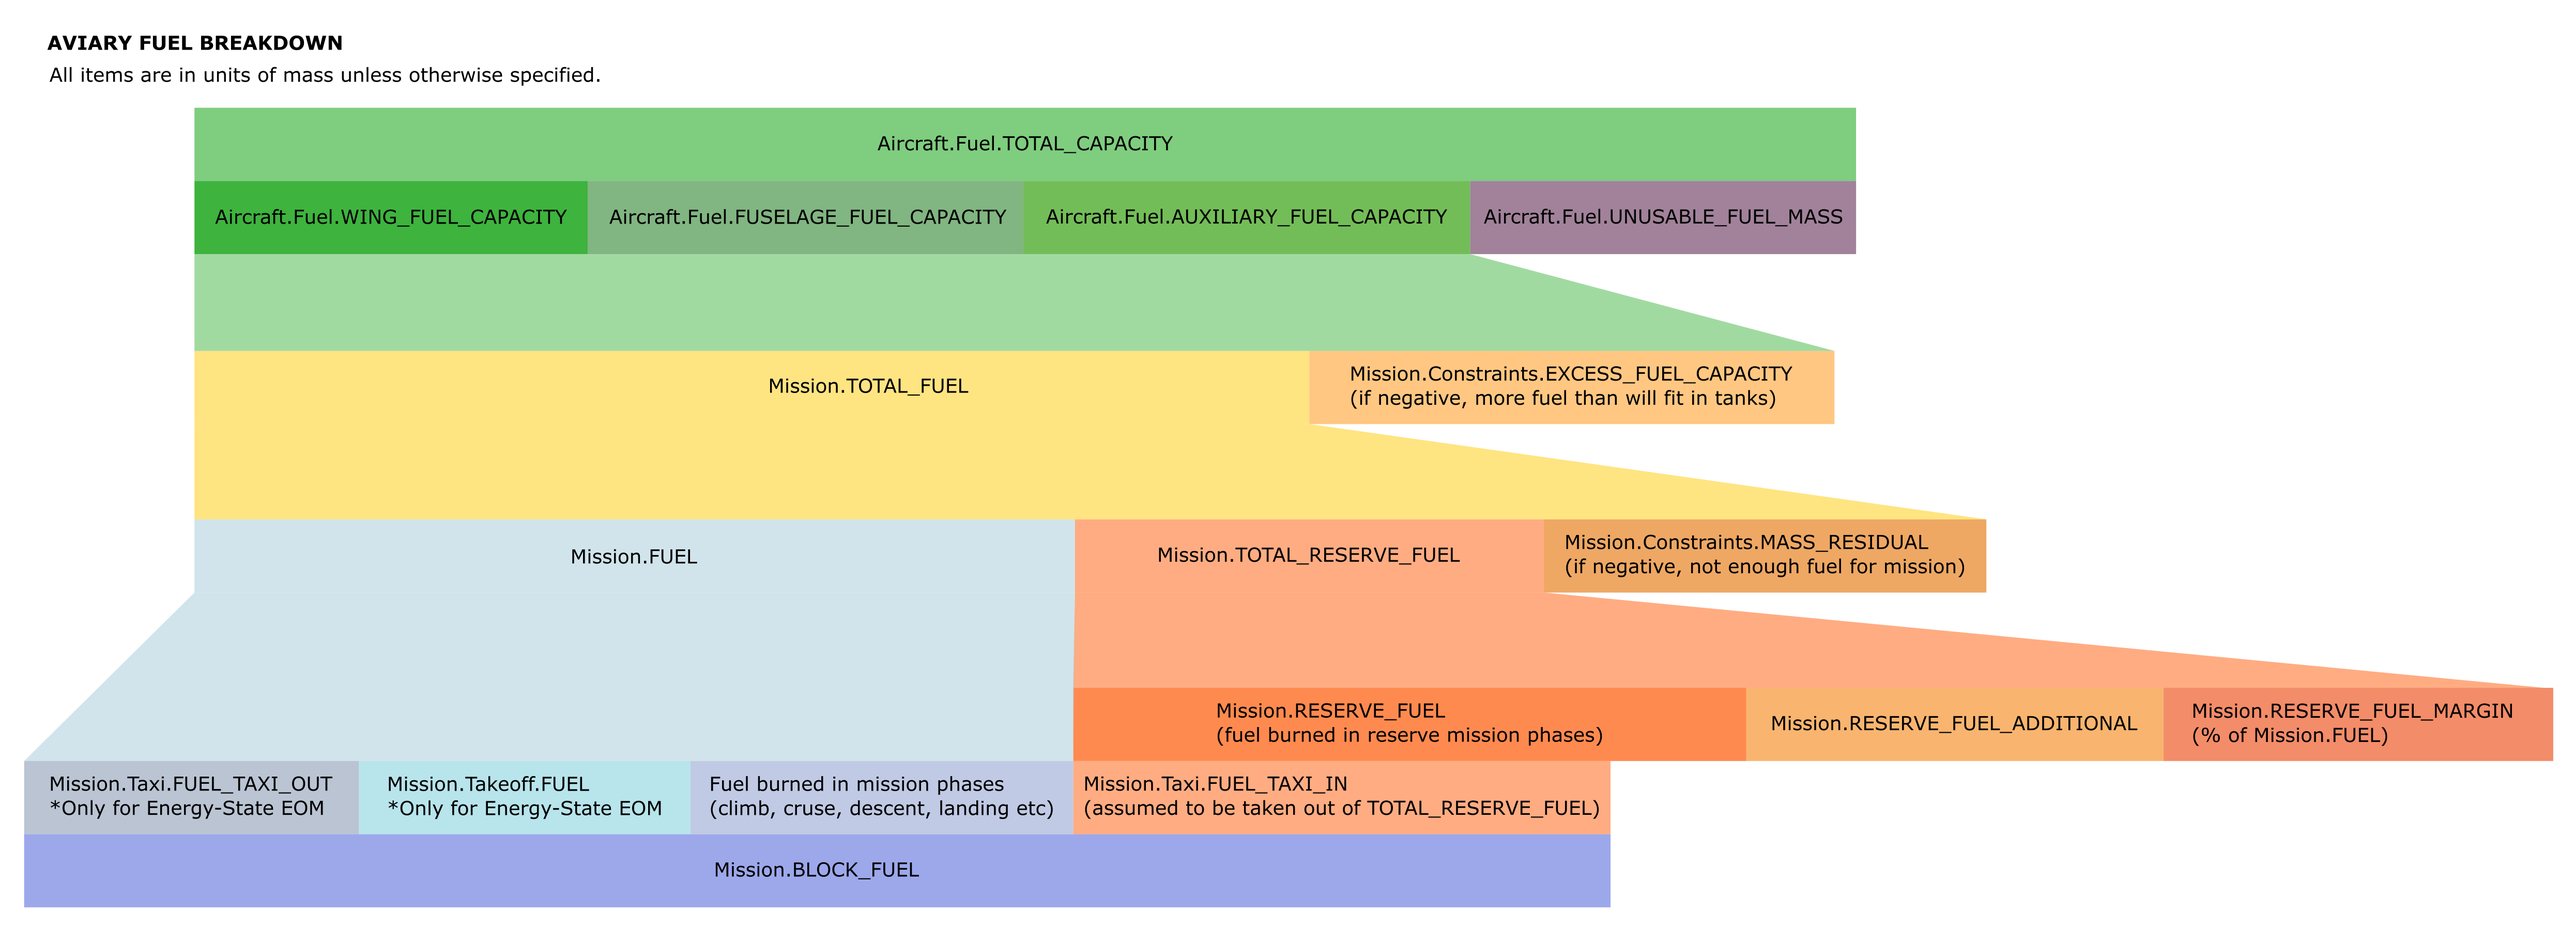
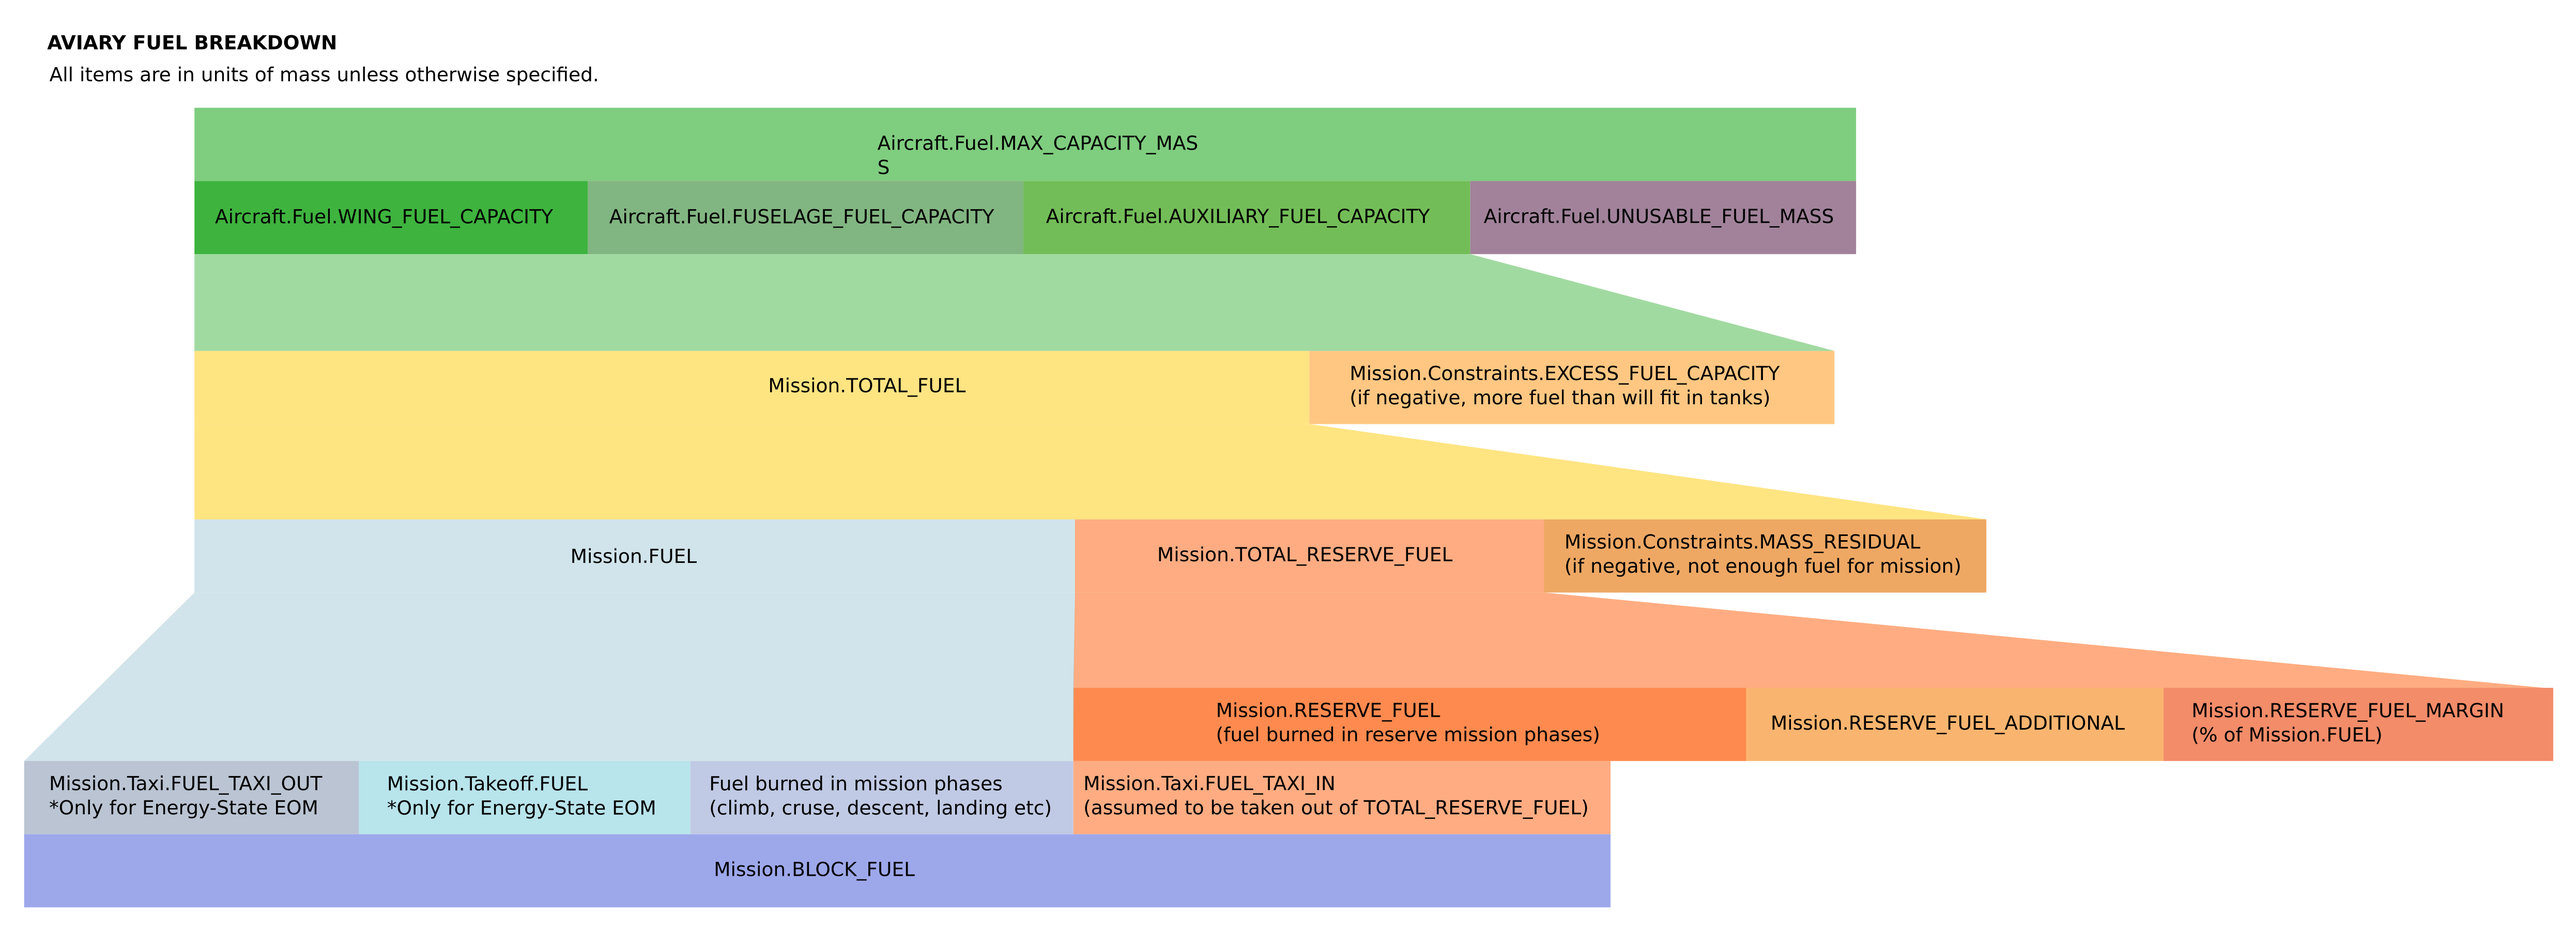
post-merge variable name changes

diff --git a/aviary/subsystems/mass/gasp_based/test/test_mass_premission.py b/aviary/subsystems/mass/gasp_based/test/test_mass_premission.py
@@ -491,7 +491,7 @@ class MassPremissionTestCase2(unittest.TestCase):
         assert_near_equal(prob['extra_fuel_volume'], 0, tol)
         assert_near_equal(prob['max_extra_fuel_mass'], 0, tol)
         assert_near_equal(prob['wingfuel_mass_min'], 33716.89535681, tol)
-        assert_near_equal(prob[Aircraft.Fuel.TOTAL_CAPACITY], 44376.72715242, tol)
+        assert_near_equal(prob[Aircraft.Fuel.MAX_CAPACITY_MASS], 44376.72715242, tol)
         # EmpennageMass
         assert_near_equal(prob[Aircraft.Design.EMPENNAGE_MASS], 4574.10130526, tol)
         # StructureMass
